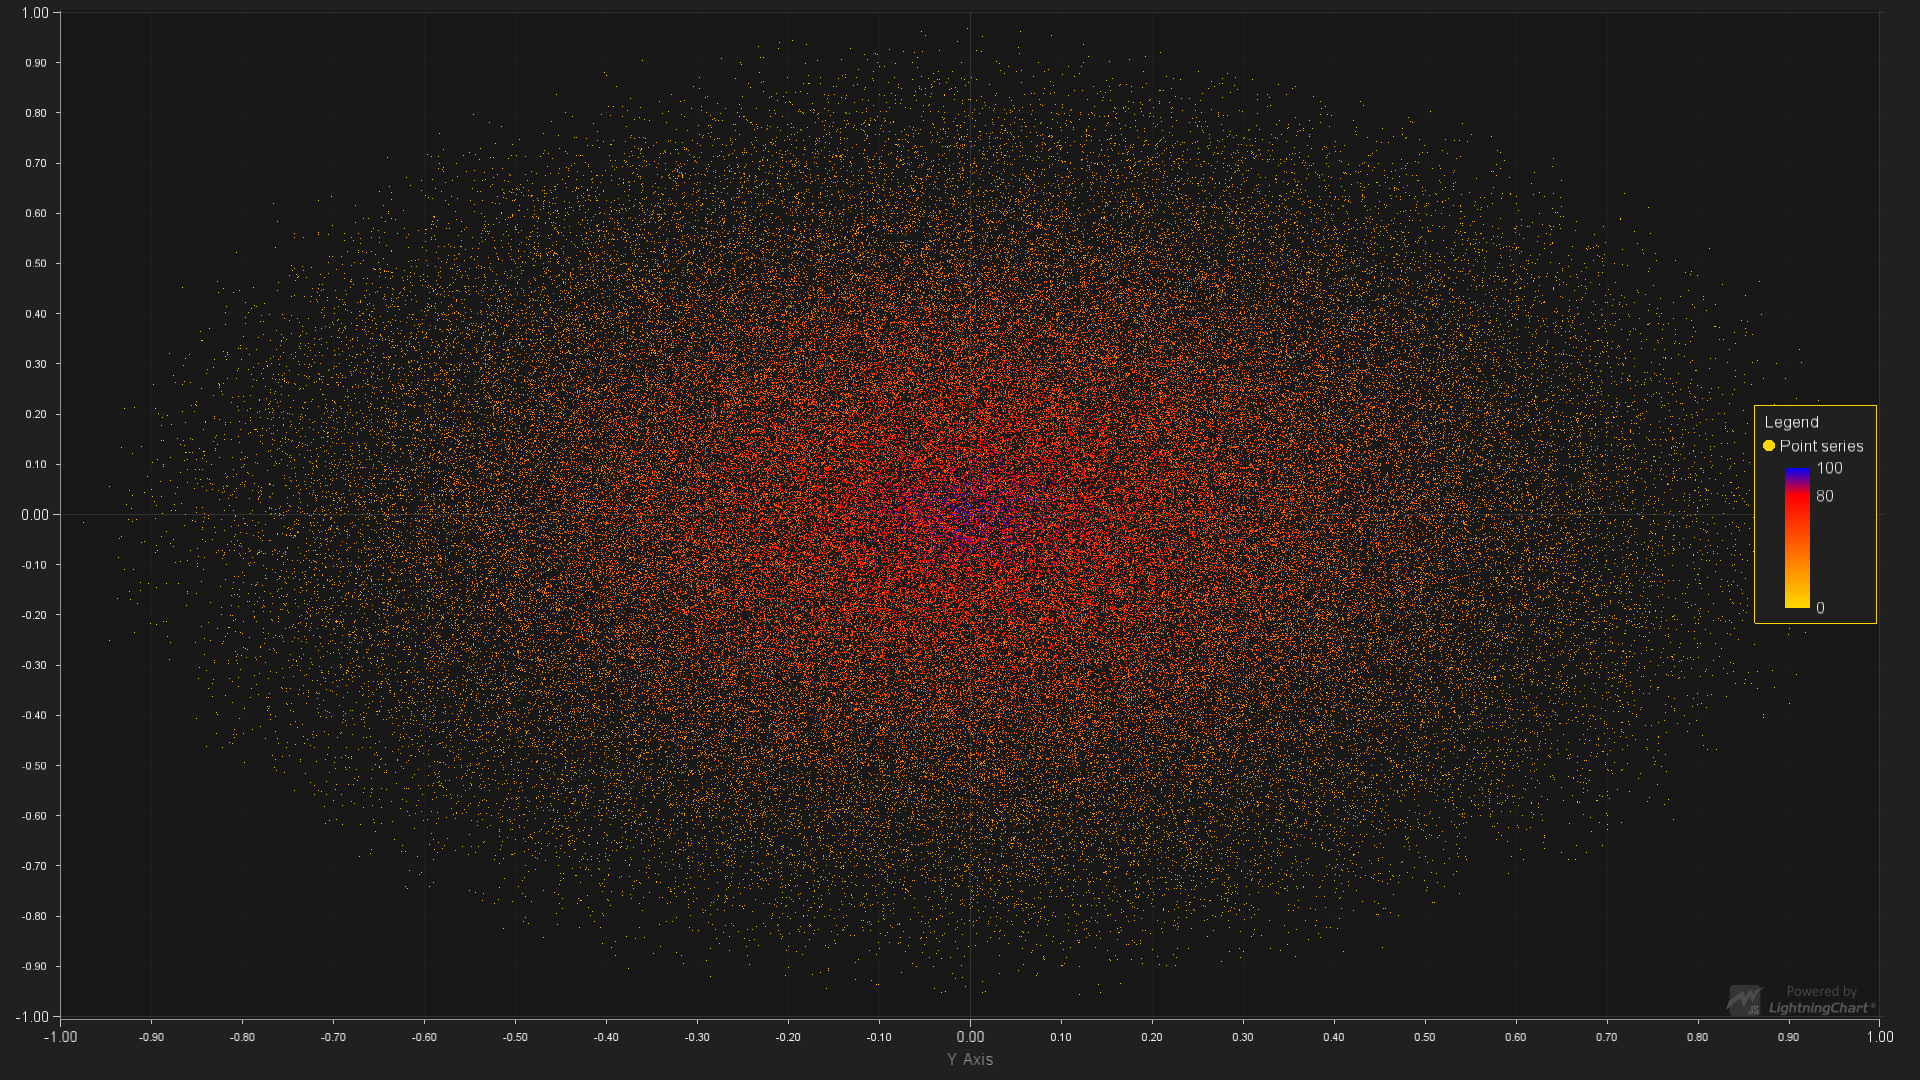
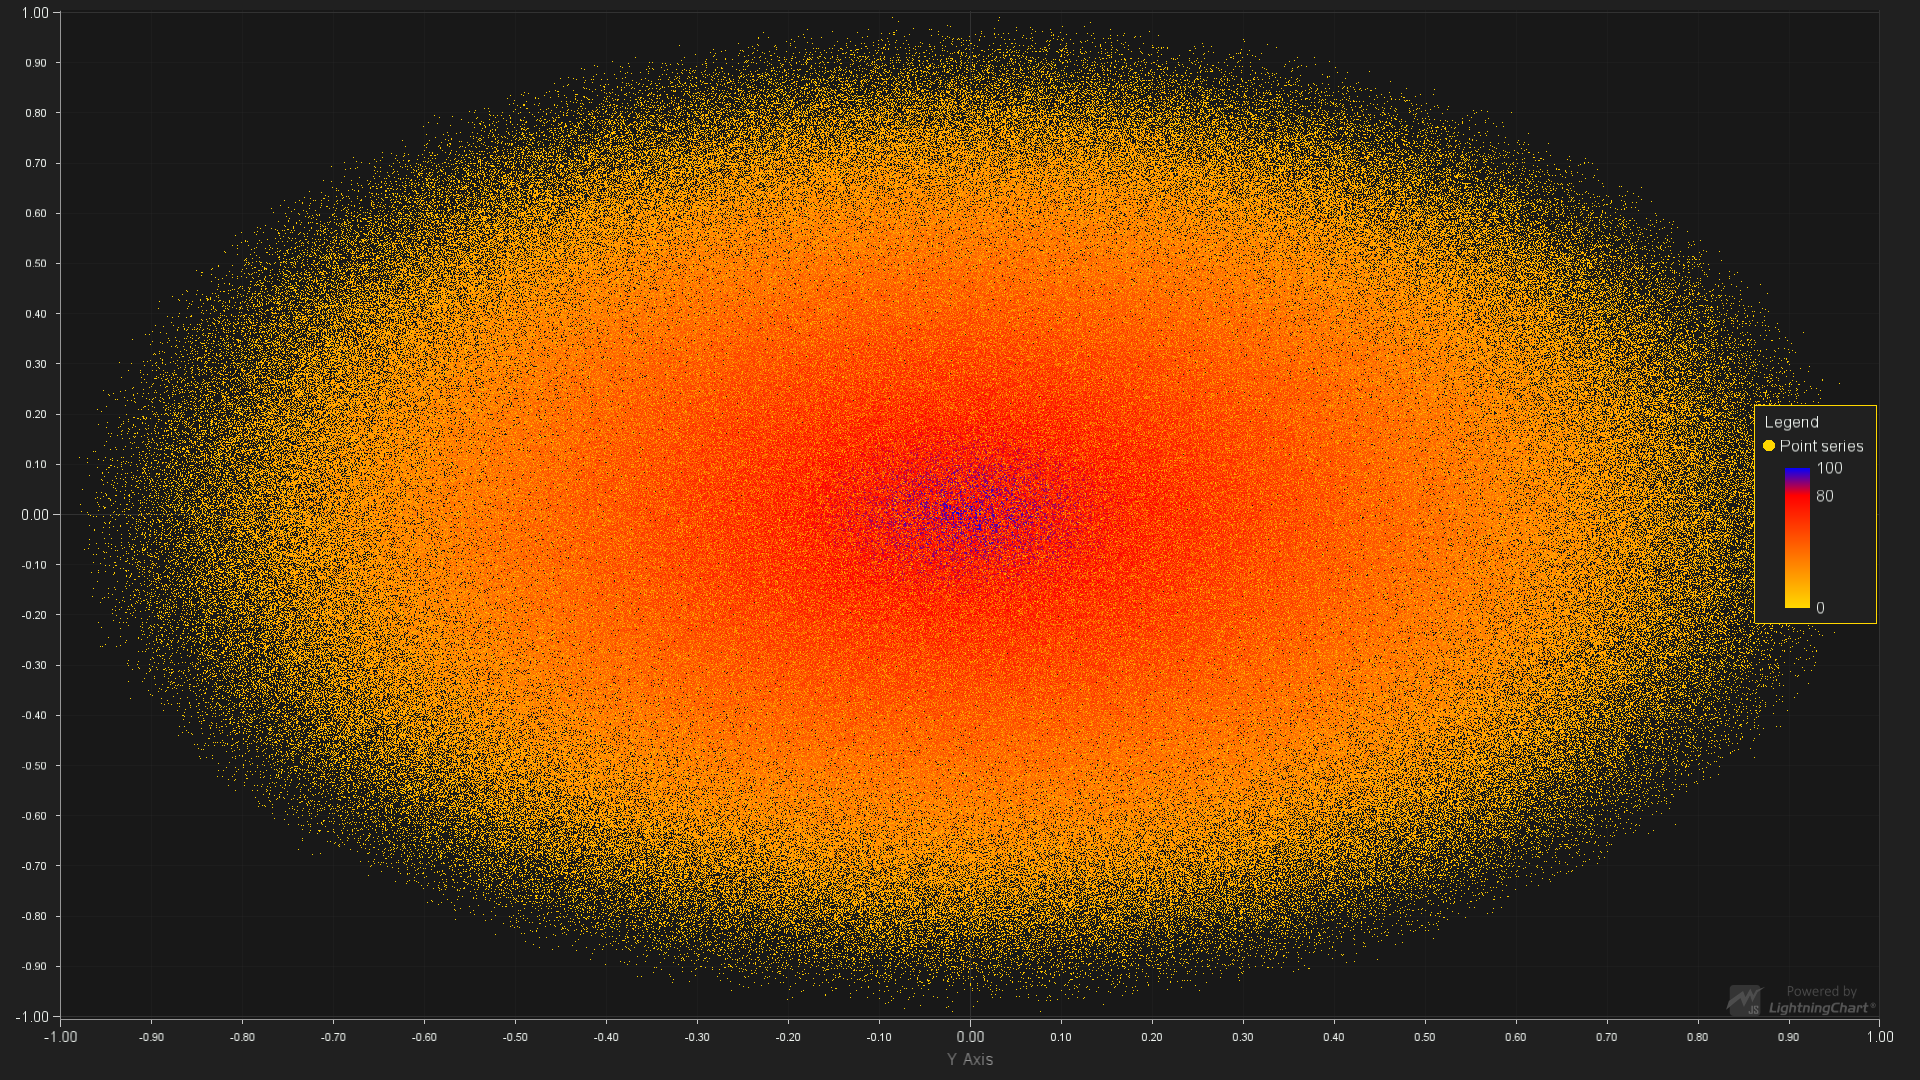
next version

diff --git a/index.js b/index.js
@@ -8,10 +8,9 @@ const {
 } = require("@arction/lcjs");
 const { PNG } = require("pngjs");
 const fs = require("fs");
-const { time } = require("console");
 
 (async () => {
-  const dataPointsCount = 1 * 1000 * 1000;
+  const dataPointsCount = 50 * 1000 * 1000;
   const resultSize = {
     width: 1920,
     height: 1080,
@@ -55,24 +54,41 @@ const { time } = require("console");
   const rand = (min, max) => min + Math.random() * (max - min);
   axisX.setInterval(-1, 1, false, true);
   axisY.setInterval(-1, 1, false, true);
-  const dataPoints = [];
-  for (let i = 0; i < dataPointsCount; i += 1) {
-    const x = Math.random() * 2 - 1;
-    const y = Math.random() * 2 - 1;
-    const diff = { x: 0 - x, y: 0 - y };
-    const distance = Math.sqrt(diff.x ** 2 + diff.y ** 2);
-    const value = rand(0, 100 - distance * 100);
-    const size = Math.max(value / (100 / 2), 0);
-    if (size > 0) {
-      const dataPoint = { x, y, value, size };
-      dataPoints.push(dataPoint);
+  let existingDataPointsCount = 0;
+  do {
+    let dataPoints = [];
+    for (
+      let i = 0;
+      i < Math.min(dataPointsCount - existingDataPointsCount, 10 * 1000 * 1000);
+      i += 1
+    ) {
+      const x = Math.random() * 2 - 1;
+      const y = Math.random() * 2 - 1;
+      const diff = { x: 0 - x, y: 0 - y };
+      const distance = Math.sqrt(diff.x ** 2 + diff.y ** 2);
+      const value = rand(0, 100 - distance * 100);
+      const size = Math.max(value / (100 / 2), 0);
+      if (size > 0) {
+        const dataPoint = { x, y, value, size };
+        dataPoints.push(dataPoint);
+      }
     }
-  }
-  console.timeEnd("generate test data");
+    existingDataPointsCount += dataPoints.length;
+    console.log(`append chunk (${dataPoints.length})`);
+    series.add(dataPoints);
+    dataPoints = [];
 
-  console.time("append data to series");
-  series.add(dataPoints);
-  console.timeEnd("append data to series");
+    const memory = process.memoryUsage();
+    console.log(
+      `waiting | existing data amount: ${existingDataPointsCount} | mem ${(
+        memory.heapTotal /
+        1024 ** 2
+      ).toFixed(1)} MB`
+    );
+    await new Promise((resolve) => setTimeout(resolve, 1000));
+  } while (existingDataPointsCount < dataPointsCount);
+
+  console.timeEnd("generate test data");
 
   console.time("render chart");
   const frame = renderToPNG(chart, resultSize.width, resultSize.height);
